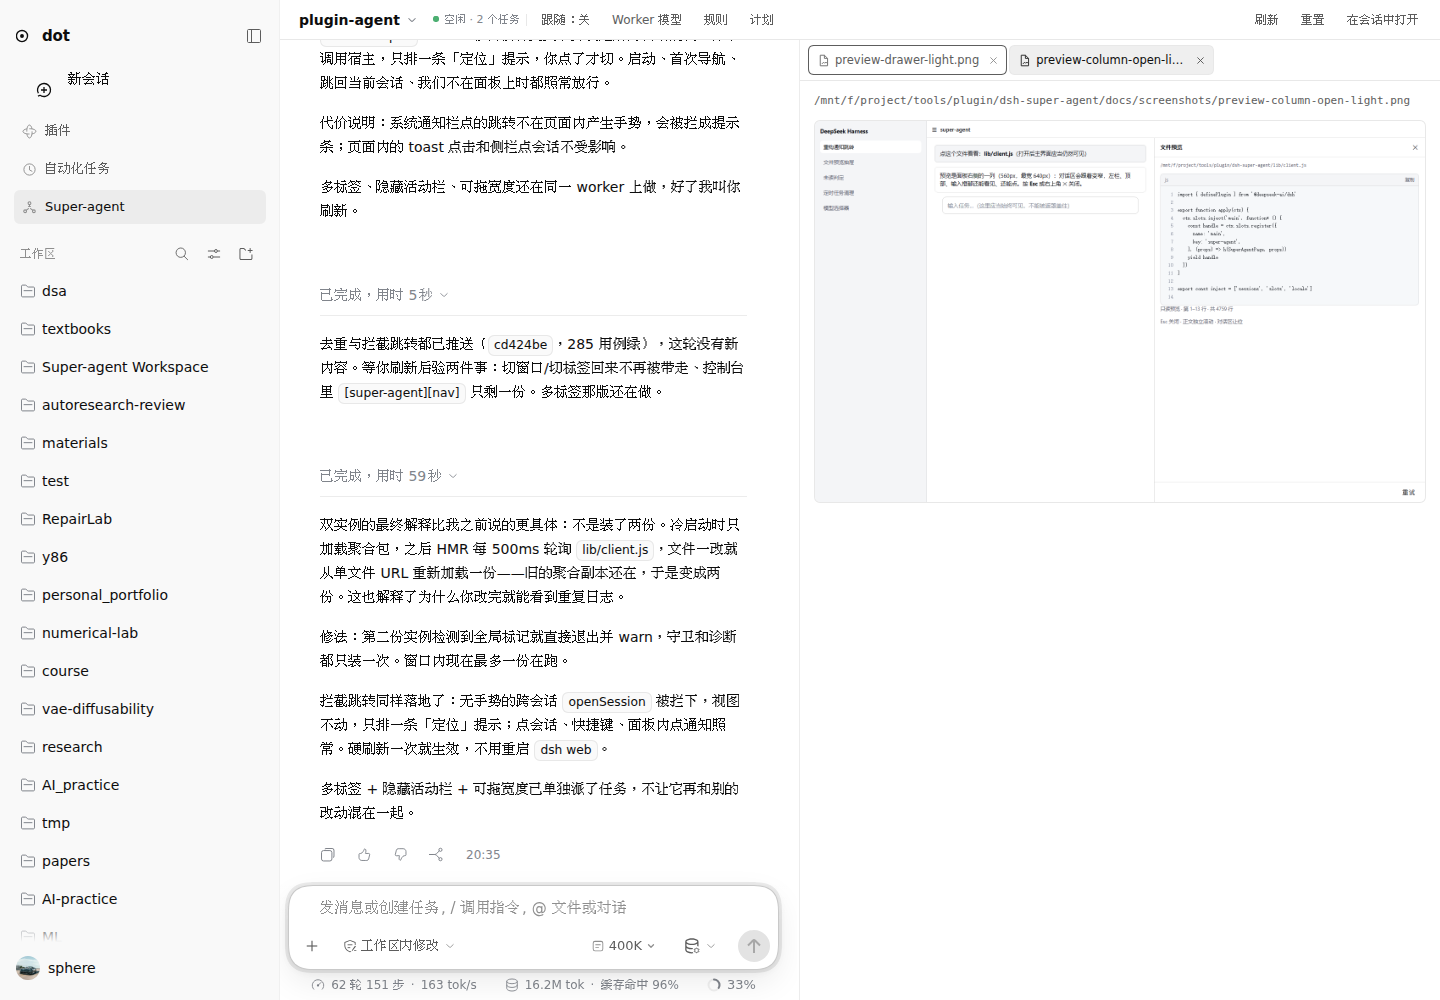
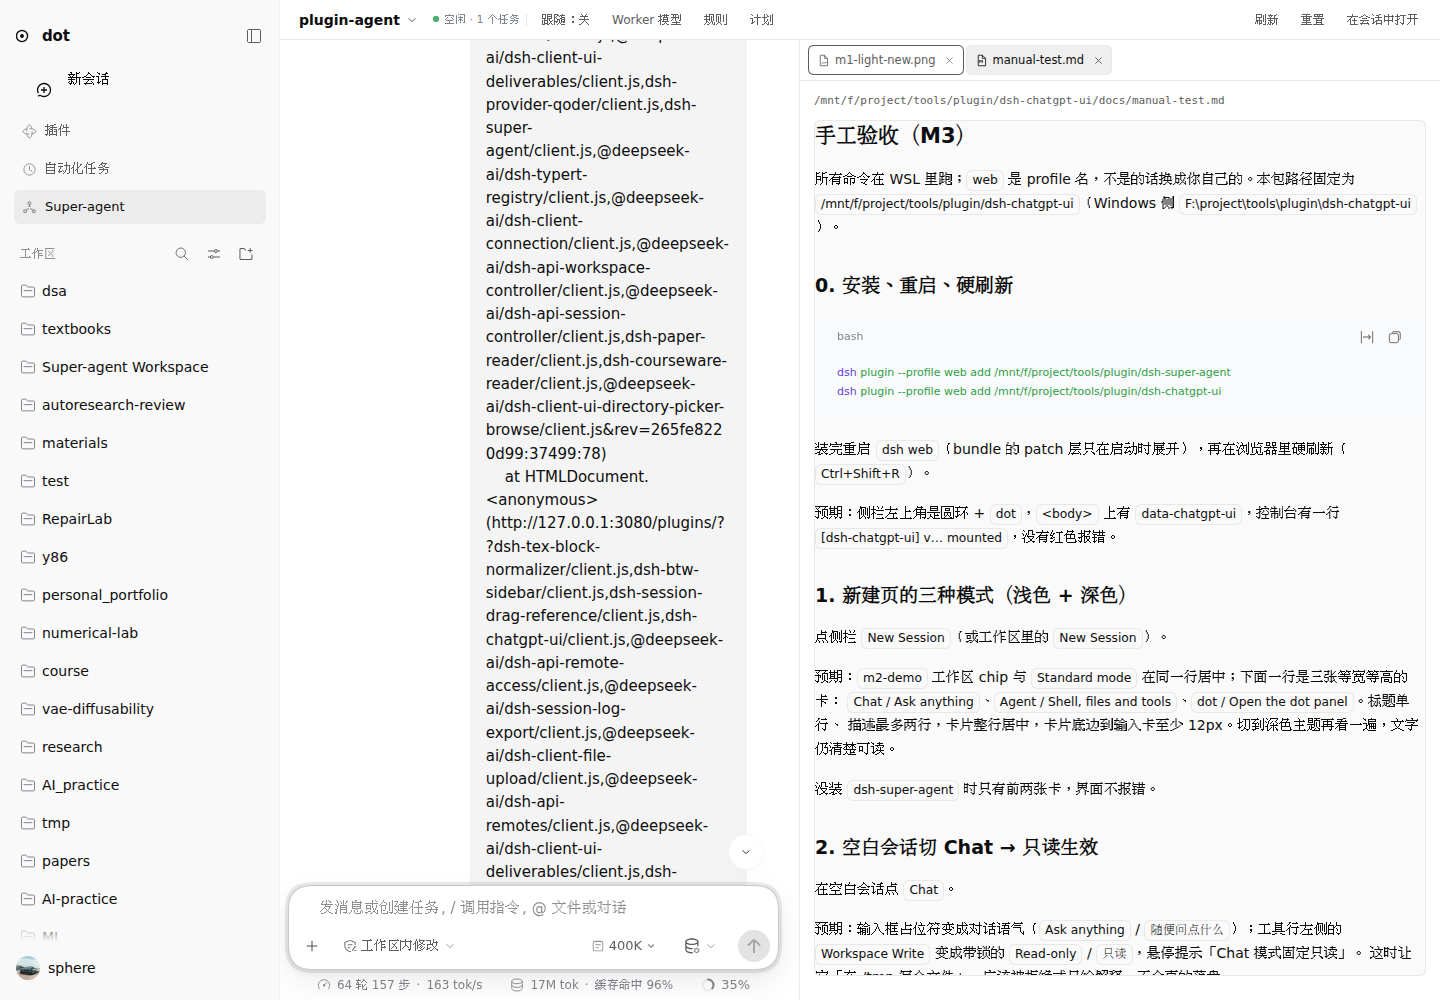
守卫补漏（sessions.open / 重复 inject）+ 活动栏可见性抽成纯函数 + 多标签截图更新
- wrapSessionOpener 防重复包装：ctx.inject 回调重复跑时第二次拿到的是我们的
  包装函数，旧逻辑会再包一层，导致还原只拆最外层、守卫泄漏；按 entry.guarded
  去重。补两条测试：sessions.open 也被包住且还原；重复回调后 openSession 仍
  是原函数。
- 活动栏显隐抽成 activityRailVisible(preview) 纯函数并补测试（预览打开隐藏、
  关到最后一个才恢复）；渲染行为不变。
- 截图改为真实双标签：PNG + Markdown（宿主 MarkdownText/CodeBlock 渲染），
  浅/深各一张。

diff --git a/lib/client.js b/lib/client.js
@@ -2128,6 +2128,18 @@ window.__ModuleLoader__.load({
     }
 
     /**
+     * 活动栏只在预览列收起时渲染：预览一开，对话区要同时容纳「正文 + 640 预览」，
+     * 再挤一条 292px 的活动栏会把对话压到 244px。所以是**不渲染**（不是盖住），
+     * 预览关到最后一个标签后自然回来。
+     *
+     * @param {{ tabs?: object[] }|undefined} preview 预览状态。
+     * @returns {boolean} 是否显示活动栏。
+     */
+    function activityRailVisible(preview) {
+      return !(Array.isArray(preview?.tabs) && preview.tabs.length > 0)
+    }
+
+    /**
      * 单个标签的正文：读取走官方公开 remote 面，正文用官方渲染组件。
      *
      * 官方右侧栏预览在插件面板里打不开：面板占着 `main` 槽，`activePanelId` 非空，
@@ -4857,9 +4869,8 @@ window.__ModuleLoader__.load({
           ),
           // 预览打开时让出活动栏：面板宽 1176 时「对话 + 292 活动栏 + 640 预览」
           // 会把对话区挤到 244px。预览优先，活动栏在预览关闭后回来。
-          previewOpen
-            ? null
-            : h(ActivityRail, {
+          activityRailVisible(preview)
+            ? h(ActivityRail, {
                 tasks: activityRows,
                 t,
                 detail: detailId.length > 0 ? detail : undefined,
@@ -4874,7 +4885,8 @@ window.__ModuleLoader__.load({
                 steerBusy,
                 steerError,
                 onLoadMore: loadActivityFull,
-              }),
+              })
+            : null,
           // 预览列：一个文件一个标签，点新文件只追加+激活，不关已有标签；
           // 宽度按面板宽度自适应（<1000 → 480），左缘可拖拽。
           previewOpen
@@ -5367,7 +5379,9 @@ window.__ModuleLoader__.load({
           return
         }
         if (typeof original !== 'function') return
-        if (openerRestores.some((entry) => entry.original === original)) return
+        // 已经包过：`ctx.inject` 的回调可能重复跑（服务重启/补丁重载），第二次
+        // 拿到的就是我们的包装函数；再包一层会让「还原」只拆掉最外层。
+        if (openerRestores.some((entry) => entry.original === original || entry.guarded === original)) return
         const guardedOpener = function guardedSessionOpener(target, ...rest) {
           let targetId
           try {
@@ -6038,6 +6052,7 @@ window.__ModuleLoader__.load({
       previewTabsAdd,
       previewTabsClose,
       previewWidthFor,
+      activityRailVisible,
       Drawer,
       styles: S,
       readUiState,
